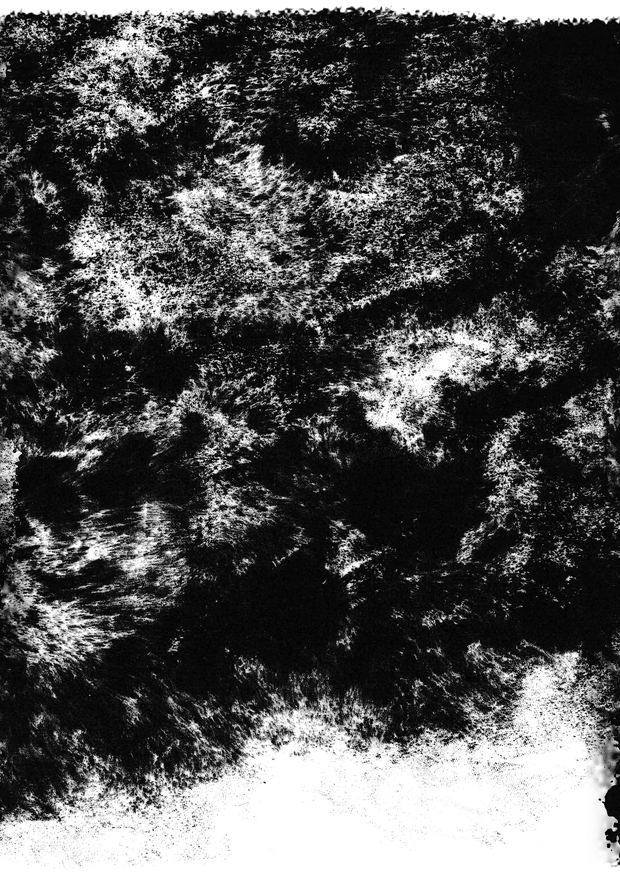
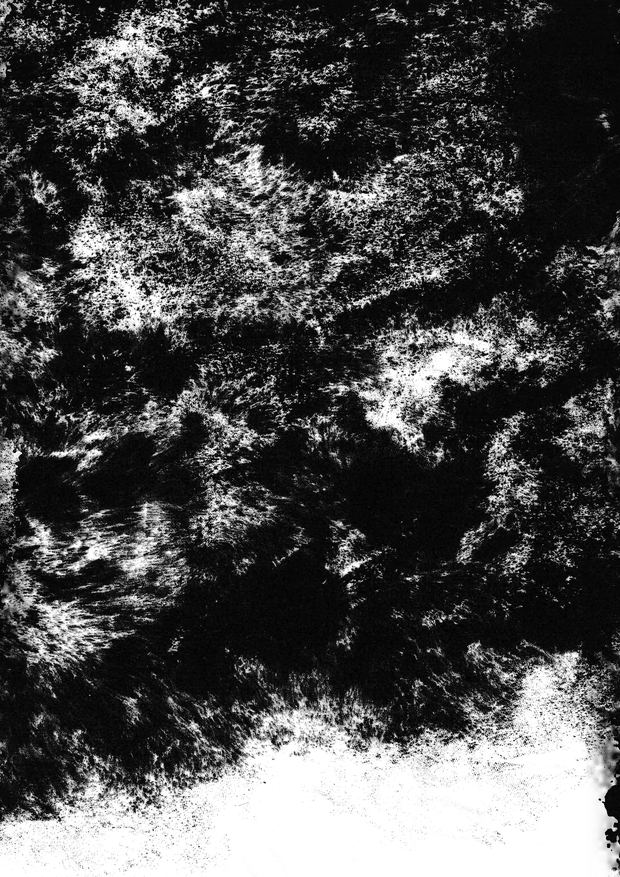
Portfolio lab: Compressed Modernity's scroll as xuan paper the air lifts under the mouse; the camera in shots: oblique, down to an ant's view across the paper, up over the whole scroll, down to the photograph; no white rim
Claude-Session: https://claude.ai/code/session_01PrWTwohcoacfLot72mywGw

Changed region(s): [[0.0, 0.0, 1.0, 0.0308], [0.9806, 0.9852, 1.0, 1.0]]

diff --git a/portfolio-lab/cm/cm-world.js b/portfolio-lab/cm/cm-world.js
@@ -1,19 +1,20 @@
-/* Compressed Modernity: the rubbings as one long handscroll, read the way a handscroll is read: close, a stretch at a
-   time, the eye travelling along it from its head to its tail.
-   Thirteen of the traced sheets are joined edge to edge (frayed where they meet) into one strip of white paper lying on
-   black, dense canopies first, then the strokes of the grasses, then the blots, thinning toward the end. The ink stands
-   a little as high as it is dark and a low light rakes across it, so the rubbings read as a land; beyond the stretch
-   being read the paper sinks into the dark. The view opens close on the head of the scroll, draws back a little and
-   moves along it, the paper passing under the eye; at the tail it rises back to where the cover photograph was taken
-   (the strip lies exactly where the paper lies in the picture) and the picture takes over.
+/* Compressed Modernity: the rubbings as one long handscroll of xuan paper, read the way a handscroll is read.
+   Thirteen of the traced sheets are joined edge to edge (frayed where they meet) into one strip of paper lying on black,
+   dense canopies first, then the strokes of the grasses, then the blots, thinning toward the end. The ink stands a
+   little as high as it is dark and a low light rakes across it, so the rubbings read as a land.
+   The paper is thin and light: its long edges stir by themselves, and wherever the mouse sweeps over it (or the page
+   is scrolled under it) the air lifts it, and it drifts back down (a small simulation of the sheet: lifted by the air,
+   pulled flat by its own tension, falling slowly, resting on the ground).
+   The camera: close and oblique on the head of the scroll; along it, lower and flatter; down onto the paper, an ant's
+   view running across its surface; up into a view of the whole scroll; and down again to where the cover photograph
+   was taken (the strip lies exactly where the paper lies in the picture), and the picture takes over.
    step(u): u = screen heights of scroll since the frame pinned. Needs THREE (r128). */
 window.CMStage = function (frame, opts) {
   'use strict';
   const clamp = (v, a, b) => Math.min(b, Math.max(a, v));
   const lerp = (a, b, t) => a + (b - a) * t;
   const smt = (a, b, x) => { const t = clamp((x - a) / (b - a), 0, 1); return t * t * (3 - 2 * t); };
-  const eio = t => (t < .5 ? 4 * t * t * t : 1 - Math.pow(-2 * t + 2, 3) / 2);
-  const PAN1 = 5.0, BK0 = 4.55, BK1 = 5.95, PH0 = 5.55, PH1 = 6.05, OUT0 = 6.0, OUT1 = 6.35, END = 6.6;
+  const FIN = 6.0, PH0 = 5.65, PH1 = 6.15, OUT0 = 6.1, OUT1 = 6.45, END = 6.7;
   // the photograph's camera (assumed): a phone's main lens, 41° vertical on the 16:9 frame, eye height 1.5 m; the
   // horizon, where the paper's long edges meet, at .455 of the height
   const VFOV = 41, EYE = 1.5, HZ = .455;
@@ -24,9 +25,9 @@ window.CMStage = function (frame, opts) {
   const cv = document.createElement('canvas'); cv.className = 'ws-cv'; cv.setAttribute('aria-hidden', 'true');
   frame.appendChild(photo); frame.appendChild(cv);
 
-  let T = null, R = null, scene, cam, vw = 1, vh = 1, mobile = false, loaded = 0, key = '', built = false, S = null, U = null;
+  let T = null, R = null, scene, cam, vw = 1, vh = 1, mobile = false, loaded = 0, built = false, S = null, U = null;
   const lo = [], tex = [], mats = [], meshes = [];
-  let hiQueued = false;
+  let hiQueued = false, HF = null;
 
   function js(src) { return new Promise((res, rej) => { const el = document.createElement('script'); el.src = src; el.onload = res; el.onerror = rej; document.head.appendChild(el); }); }
   function img(src) { return new Promise(res => { const im = new Image(); im.decoding = 'async'; im.src = src; (im.decode ? im.decode() : new Promise(r => { im.onload = r; })).then(() => res(im), () => res(null)); }); }
@@ -36,14 +37,14 @@ window.CMStage = function (frame, opts) {
     // the small tiles first (the whole scroll, quickly); on a large screen the full ones follow, head first
     Promise.all([window.THREE ? 0 : js(opts.three), Promise.all(opts.tiles.map(t => img(t.lo)))]).then(([, list]) => {
       T = window.THREE; list.forEach((im, i) => lo[i] = im);
-      init(); key = '';
+      init();
     }).catch(e => console.warn('CM world off:', e));
   }
   function loadHi() {
     if (hiQueued || mobile || !built) return; hiQueued = true;
     let next = 0;
     const one = () => { const k = next++; if (k >= NT) return;
-      img(opts.tiles[k].hi).then(im => { if (im && tex[k]) { tex[k].image = im; tex[k].needsUpdate = true; key = ''; } one(); }); };
+      img(opts.tiles[k].hi).then(im => { if (im && tex[k]) { tex[k].image = im; tex[k].needsUpdate = true; } one(); }); };
     one(); one();                                            // two at a time
   }
 
@@ -78,7 +79,7 @@ window.CMStage = function (frame, opts) {
     const x = c.getContext('2d'); x.fillStyle = '#fff'; x.fillRect(0, 0, GW, nc);
     lo.forEach((im, k) => { if (im) x.drawImage(im, k * na, 0, na, nc); });
     const d = x.getImageData(0, 0, GW, nc).data, n = GW * nc;
-    let a = new Float32Array(n), b = new Float32Array(n);
+    const a = new Float32Array(n), b = new Float32Array(n);
     for (let i = 0; i < n; i++) a[i] = 1 - d[i * 4] / 255;
     for (let pass = 0; pass < 3; pass++) {                   // softened, separably: canopies are hills, not needles
       for (let j = 0; j < nc; j++) for (let i = 0; i < GW; i++) {
@@ -90,12 +91,12 @@ window.CMStage = function (frame, opts) {
         a[j * GW + i] = s / m;
       }
     }
-    return { h: a, GW };
+    return { h: a, GW, na, nc };
   }
   function buildTiles() {
     meshes.forEach(m => { scene.remove(m); m.geometry.dispose(); }); meshes.length = 0;
-    const na = mobile ? 56 : 110, nc = mobile ? 80 : 156, { h, GW } = heights(na, nc);
-    const H = (g, i) => h[clamp(i, 0, nc - 1) * GW + clamp(g, 0, GW - 1)];
+    const na = mobile ? 56 : 110, nc = mobile ? 80 : 156; HF = heights(na, nc);
+    const { h, GW } = HF, H = (g, i) => h[clamp(i, 0, nc - 1) * GW + clamp(g, 0, GW - 1)];
     for (let k = 0; k < NT; k++) {
       const Pa = [], G = [], idx = [];
       for (let jj = 0; jj <= na; jj++) for (let i = 0; i < nc; i++) {
@@ -116,14 +117,111 @@ window.CMStage = function (frame, opts) {
       const m = new T.Mesh(g, mats[k]); m.frustumCulled = false; scene.add(m); meshes.push(m);
     }
   }
+  // the relief's height (world units) at a point of the scroll, for keeping the low camera above the paper
+  function reliefAt(a, c) {
+    if (!HF) return 0;
+    const g = clamp(Math.round(a / S.Lt * HF.na), 0, HF.GW - 1), i = clamp(Math.round(c / S.W * (HF.nc - 1)), 0, HF.nc - 1);
+    return HF.h[i * HF.GW + g] * U.uRel.value;
+  }
+
+  /* ---------- the paper's lift: a small sheet simulation on a grid over the whole scroll ----------
+     h: how far the paper stands off the ground; the air (the mouse's sweep, the scroll's gusts) pushes it up, its
+     tension spreads and evens it, a weak gravity and the air's drag let it float back down, and the ground stops it. */
+  const SIM = { NA: 0, NC: 34, dx: 1, h: null, v: null, data: null, tex: null, HM: .08 };
+
+  function simInit() {
+    const NC = SIM.NC, dx = S.W / (NC - 1), NA = Math.ceil(S.Ltot / dx) + 1;
+    Object.assign(SIM, { NA, dx, h: new Float32Array(NA * NC), v: new Float32Array(NA * NC), data: new Uint8Array(NA * NC) });
+    SIM.tex = new T.DataTexture(SIM.data, NA, NC, T.LuminanceFormat, T.UnsignedByteType);
+    SIM.tex.unpackAlignment = 1; SIM.tex.magFilter = SIM.tex.minFilter = T.LinearFilter; SIM.tex.generateMipmaps = false; SIM.tex.needsUpdate = true;
+  }
+  function simStep(dt) {
+    // slack along the scroll, tauter across it: a lift spreads over the paper's width and stands as a ridge across it
+    const { NA, NC, h, v, dx } = SIM, Ka = .07 * .07 / (dx * dx), Kc = .16 * .16 / (dx * dx), G = .38, drag = Math.exp(-3.5 * dt);
+    for (let j = 0; j < NC; j++) {
+      const r = j * NA, ru = (j > 0 ? j - 1 : j) * NA, rd = (j < NC - 1 ? j + 1 : j) * NA;
+      for (let i = 0; i < NA; i++) {
+        const k = r + i, hk = h[k];
+        const f = Ka * (h[r + (i > 0 ? i - 1 : i)] + h[r + (i < NA - 1 ? i + 1 : i)] - 2 * hk) + Kc * (h[ru + i] + h[rd + i] - 2 * hk);
+        v[k] = (v[k] + (f - (hk > 0 ? G : 0)) * dt) * drag;
+      }
+    }
+    for (let k = 0, n = NA * NC; k < n; k++) {
+      let hk = h[k] + v[k] * dt;
+      if (hk <= 0) { hk = 0; if (v[k] < 0) v[k] = 0; } else if (hk > SIM.HM) { hk = SIM.HM; if (v[k] > 0) v[k] = 0; }
+      h[k] = hk; SIM.data[k] = hk / SIM.HM * 255 + .5;
+    }
+    SIM.tex.needsUpdate = true;
+  }
+  function lift(a, c, R, dv) {                              // the air under a sweep: a soft round push upward
+    const { NA, NC, v, dx } = SIM, i0 = Math.max(0, Math.floor((a - 2.4 * R) / dx)), i1 = Math.min(NA - 1, Math.ceil((a + 2.4 * R) / dx));
+    const Rc = 1.7 * R, j0 = Math.max(0, Math.floor((c - 2.4 * Rc) / dx)), j1 = Math.min(NC - 1, Math.ceil((c + 2.4 * Rc) / dx));
+    for (let j = j0; j <= j1; j++) {
+      const cy = j * dx, edge = 1 + .9 * (smt(.22 * S.W, 0, cy) + smt(.78 * S.W, S.W, cy));   // the free edges lift first
+      for (let i = i0; i <= i1; i++) {
+        const ax = i * dx, r2 = (ax - a) * (ax - a) / (R * R) + (cy - c) * (cy - c) / (Rc * Rc);
+        if (r2 < 5.8) v[j * NA + i] += dv * edge * Math.exp(-r2);
+      }
+    }
+  }
+  function simAt(a, c) {
+    if (!SIM.h) return 0;
+    const i = clamp(Math.round(a / SIM.dx), 0, SIM.NA - 1), j = clamp(Math.round(c / SIM.dx), 0, SIM.NC - 1);
+    return SIM.h[j * SIM.NA + i];
+  }
+  // where a point of the screen falls on the scroll (strip coordinates), and how far it is from the eye
+  let ray = null;
+  function hitAt(nx, ny) {
+    if (!ray) ray = new T.Raycaster();
+    ray.setFromCamera({ x: nx, y: ny }, cam);
+    const o = ray.ray.origin, d = ray.ray.direction; if (d.y > -1e-4) return null;
+    const t = (o.y - .01) / -d.y, rel = o.clone().addScaledVector(d, t).sub(S.O);
+    const a = rel.dot(S.D) - S.s0, c = rel.dot(S.N);
+    if (a < -.05 || a > S.Ltot + .05 || c < -.05 || c > S.W + .05) return null;
+    return { a, c, dist: t };
+  }
+  const mp = { x: 0, y: 0, on: false, prev: null };
+  addEventListener('pointermove', e => { if (e.pointerType !== 'mouse') return; mp.x = e.clientX; mp.y = e.clientY; mp.on = true; }, { passive: true });
+  document.documentElement.addEventListener('mouseleave', () => { mp.on = false; mp.prev = null; });
+  let simT = 0, lastU = null, gust = 0, seed = 3;
+  const rnd = () => (seed = (seed * 16807) % 2147483647) / 2147483647;
+  function air(u, dt) {
+    // the mouse: its sweep across the paper (moving the mouse, or the paper moving under a still mouse as the page
+    // scrolls), measured as an angle per second so a sweep lifts as much near or far
+    if (mp.on) {
+      const H = hitAt(mp.x / vw * 2 - 1, -(mp.y / vh * 2 - 1));
+      if (H && mp.prev && dt > 0) {
+        const ang = Math.min(5, Math.hypot(H.a - mp.prev.a, H.c - mp.prev.c) / H.dist / dt);
+        // (gentler right under a low eye, so the paper does not rise up as a wall in front of it)
+        if (ang > .05) lift(H.a, H.c, clamp(.1 * H.dist, .045, .22), 2.2 * ang * dt * (.25 + .75 * smt(.12, .6, H.dist)));
+      }
+      mp.prev = H;
+    }
+    // the scroll's own breath: gusts here and there while the page moves
+    const sp = lastU === null ? 0 : Math.min(3, Math.abs(u - lastU) / Math.max(dt, 1e-3)); lastU = u;
+    gust += Math.min(7, sp * 3) * dt;
+    while (gust >= 1) { gust -= 1;
+      const H = hitAt(rnd() * 1.8 - .9, rnd() * 1.4 - .9);
+      if (H) lift(H.a, H.c, clamp((.05 + .06 * rnd()) * Math.max(1, H.dist), .04, .25), (mp.on ? .06 : .12) * (.5 + rnd()) * Math.min(1, sp / 1.5));
+    }
+  }
+
   const VS = `
     attribute vec3 aP; attribute vec2 aG;
     uniform vec3 uO, uD, uN; uniform float uLt, uW, uS0, uK, uRel;
+    uniform sampler2D uSim; uniform vec2 uSimN; uniform float uDx, uHM, uTime, uFl;
     varying vec2 vUv; varying vec3 vNrm; varying vec3 vW; varying float vDist;
+    float lifted(float A, float C){ return texture2D(uSim, vec2((A / uDx + .5) / uSimN.x, (C / uDx + .5) / uSimN.y)).r * uHM; }
     void main(){
-      float s = aP.x, t = aP.y, h = aP.z * uRel;
-      vec3 nL = normalize(vec3(-aG.x * uRel / uLt, 1., -aG.y * uRel / uW));       // (along, up, across)
-      vec3 w = uO + uD * (uS0 + (uK + s) * uLt) + uN * (t * uW) + vec3(0., h, 0.);
+      float s = aP.x, t = aP.y, A = (uK + s) * uLt, C = t * uW;
+      float hp = lifted(A, C);
+      float gA = (lifted(A + uDx, C) - lifted(A - uDx, C)) / (2. * uDx), gC = (lifted(A, C + uDx) - lifted(A, C - uDx)) / (2. * uDx);
+      // the long edges never quite lie flat, and stir
+      float e = smoothstep(.16, 0., t) + smoothstep(.84, 1., t);
+      float fl = e * e * uFl * (.55 + .45 * sin(A * 7.3 - uTime * 1.9 + 2. * sin(A * 1.7 + uTime * .43)));
+      float h = aP.z * uRel + hp + fl;
+      vec3 nL = normalize(vec3(-(aG.x * uRel / uLt + gA), 1., -(aG.y * uRel / uW + gC)));     // (along, up, across)
+      vec3 w = uO + uD * (uS0 + A) + uN * C + vec3(0., h, 0.);
       vNrm = normalize(uD * nL.x + vec3(0., nL.y, 0.) + uN * nL.z);
       vUv = vec2(s, 1. - t);                                  // the sheet's top at the far edge
       vW = w;
@@ -133,16 +231,16 @@ window.CMStage = function (frame, opts) {
     }`;
   const FS = `
     precision highp float;
-    uniform sampler2D uTex; uniform vec3 uSun, uFoc; uniform float uFogN, uFogF;
+    uniform sampler2D uTex; uniform vec3 uSun; uniform float uFogN, uFogF;
     varying vec2 vUv; varying vec3 vNrm; varying vec3 vW; varying float vDist;
     void main(){
       float ink = 1. - texture2D(uTex, vUv).r;
       vec3 paper = vec3(.972, .966, .952), inkC = vec3(.07, .07, .075);
       vec3 n = normalize(vNrm); if (dot(n, cameraPosition - vW) < 0.) n = -n;   // the side the eye sees
-      float lit = .66 + .44 * max(dot(n, uSun), 0.);
+      float lit = .64 + .46 * max(dot(n, uSun), 0.);
       vec3 c = mix(paper, inkC, pow(ink, 1.1)) * lit;
-      // beyond the stretch being read, the scroll sinks into the dark
-      float f = smoothstep(uFogN, uFogF, distance(vW, uFoc));
+      // far from the eye the scroll sinks into the dark
+      float f = smoothstep(uFogN, uFogF, vDist);
       gl_FragColor = vec4(c * (1. - f), 1.);
     }`;
 
@@ -151,8 +249,10 @@ window.CMStage = function (frame, opts) {
     try { R = new T.WebGLRenderer({ canvas: cv, antialias: true, alpha: true, premultipliedAlpha: false }); } catch (e) { console.warn('CM world off:', e); return; }
     R.setClearColor(0x000000, 0);
     scene = new T.Scene(); cam = new T.PerspectiveCamera(VFOV, 1, .002, 200);
+    S = strip(); simInit();
     U = { uO: { value: new T.Vector3() }, uD: { value: new T.Vector3() }, uN: { value: new T.Vector3() }, uLt: { value: 1 }, uW: { value: 1 }, uS0: { value: 0 },
-      uRel: { value: .03 }, uSun: { value: new T.Vector3(.35, .55, -.76).normalize() }, uFoc: { value: new T.Vector3() }, uFogN: { value: 1 }, uFogF: { value: 2 } };
+      uRel: { value: .03 }, uSun: { value: new T.Vector3(.35, .55, -.76).normalize() }, uFogN: { value: 1 }, uFogF: { value: 2 },
+      uSim: { value: SIM.tex }, uSimN: { value: new T.Vector2(SIM.NA, SIM.NC) }, uDx: { value: SIM.dx }, uHM: { value: SIM.HM }, uTime: { value: 0 }, uFl: { value: .011 } };
     const an = Math.min(8, R.capabilities.getMaxAnisotropy());
     for (let k = 0; k < NT; k++) {
       const t = new T.Texture(lo[k] || undefined); t.format = T.LuminanceFormat; t.anisotropy = an; t.generateMipmaps = true;
@@ -170,58 +270,80 @@ window.CMStage = function (frame, opts) {
     cam.fov = VFOV; cam.aspect = b.pw / b.ph; cam.setViewOffset(b.pw, b.ph, -b.ox, -b.oy, vw, vh); cam.updateProjectionMatrix();
     S = strip();
     U.uO.value.copy(S.O); U.uD.value.copy(S.D); U.uN.value.copy(S.N); U.uLt.value = S.Lt; U.uW.value = S.W; U.uS0.value = S.s0;
-    tab = null; key = '';
+    keys = null;
   }
   function layout(w, h) {
     vw = w; vh = h; const m = vw < 700;
     if (built && m !== mobile) { mobile = m; buildTiles(); loadHi(); }
-    mobile = m; size(); key = '';
+    mobile = m; size();
   }
 
-  /* ---------- the camera: close on the head; along the scroll; back to the photograph ----------
-     How much of the scroll the screen spans at the point being read grows from a little over half a sheet to about
-     two; the eye moves along at a pace kept in step with that span, so the paper passes at the same speed on screen
-     however close it is. */
-  let tab = null;
-  const NU = 600;
-  function span(u) { return S.Lt * (.62 + .95 * smt(.05, 1.4, u) + .45 * smt(2.6, PAN1, u)); }
-  function build() {
-    const b = photoBox(), tv = Math.tan(VFOV * Math.PI / 360) * vh / b.ph, th = tv * vw / vh;
-    const A0 = .36 * S.Lt, A1 = S.Ltot - .62 * S.Lt, a = new Float32Array(NU + 1);
-    let acc = 0; a[0] = 0;
-    for (let i = 1; i <= NU; i++) {
-      const u = PAN1 * (i - .5) / NU;
-      acc += span(u) * smt(0, .9, u) * (1 - smt(PAN1 - .7, PAN1, u)); a[i] = acc;
-    }
-    for (let i = 0; i <= NU; i++) a[i] = A0 + (A1 - A0) * a[i] / acc;
-    tab = { a, th: Math.max(th, .34) };
+  /* ---------- the camera: a few shots, joined without stops ----------
+     Keyframes of eye and aim, run through by a monotone cubic in each axis (smooth, and never overshooting a key, so
+     the low shots cannot dip into the paper): close and oblique on the head; along the scroll, lower and flatter; down
+     onto the paper and running across it at an ant's height, weaving a little; up to see the whole scroll; down to
+     the photograph's eye. */
+  let keys = null;
+  function makeKeys() {
+    const b = photoBox(), tv = Math.tan(VFOV * Math.PI / 360) * vh / b.ph, th = tv * vw / vh, z = clamp(.6 / th, 1, 1.9);
+    const L = S.Lt, W = S.W, Up = new T.Vector3(0, 1, 0);
+    const obl = (aT, d, psi, the, cT) => {
+      const t = P(aT, (cT === undefined ? .5 : cT) * W, 0);
+      const dir = S.D.clone().multiplyScalar(-Math.sin(psi) * Math.cos(the)).addScaledVector(S.N, Math.cos(psi) * Math.cos(the)).addScaledVector(Up, Math.sin(the));
+      return { p: t.clone().addScaledVector(dir, d * z), t };
+    };
+    const mid = S.Ltot * .5, port = vw / vh < .9;
+    const over = port ? { p: P(-1.9, .5 * W + .6, 2.3), t: P(S.Ltot * .42, .5 * W, 0) }
+                      : { p: P(mid - 1.5, W + 3.3, 3.9), t: P(mid + .2, .5 * W, 0) };
+    const K = [
+      [0, obl(.38 * L, .34, .62, .6)],
+      [1.0, obl(1.35 * L, .6, .64, .5)],
+      [1.95, obl(3.3 * L, .5, .8, .33)],
+      [2.55, { p: P(4.45 * L, .64 * W, .15), t: P(5.5 * L, .47 * W, .02) }],
+      [3.05, { p: P(5.4 * L, .52 * W, .062), t: P(6.45 * L, .46 * W, .035) }],
+      [3.7, { p: P(7.4 * L, .4 * W, .058), t: P(8.45 * L, .56 * W, .035) }],
+      [4.3, { p: P(9.3 * L, .56 * W, .085), t: P(10.35 * L, .5 * W, .02) }],
+      [5.1, over],
+      [FIN, { p: new T.Vector3(0, EYE, 0), t: new T.Vector3(0, EYE - Math.tan(S.pitch) * 10, -10) }],
+    ];
+    const us = K.map(k => k[0]), mk = get => mono(us, K.map(k => get(k[1])));
+    return { us, p: ['x', 'y', 'z'].map(ax => mk(o => o.p[ax])), t: ['x', 'y', 'z'].map(ax => mk(o => o.t[ax])) };
   }
-  const PSI = .6, THE = .56;                                // looking along the scroll and down at it
-  function panPose(u) {
-    if (!tab) build();
-    const x = clamp(u / PAN1, 0, 1) * NU, i = Math.min(NU - 1, Math.floor(x)), f = x - i;
-    const a = lerp(tab.a[i], tab.a[i + 1], f), d = span(clamp(u, 0, PAN1)) / (2 * tab.th) * 1.08;
-    const t = P(a, .5 * S.W, 0);
-    const dir = S.D.clone().multiplyScalar(-Math.sin(PSI) * Math.cos(THE)).addScaledVector(S.N, Math.cos(PSI) * Math.cos(THE)).add(new T.Vector3(0, Math.sin(THE), 0));
-    return { p: t.clone().addScaledVector(dir, d), t, d };
+  // Fritsch–Carlson monotone cubic through (xs, ys): its values and tangents
+  function mono(xs, ys) {
+    const n = xs.length, d = [], m = new Array(n).fill(0);
+    for (let i = 0; i < n - 1; i++) d.push((ys[i + 1] - ys[i]) / (xs[i + 1] - xs[i]));
+    for (let i = 1; i < n - 1; i++) m[i] = d[i - 1] * d[i] <= 0 ? 0 : (d[i - 1] + d[i]) / 2;
+    for (let i = 0; i < n - 1; i++) {
+      if (d[i] === 0) { m[i] = m[i + 1] = 0; continue; }
+      const al = m[i] / d[i], be = m[i + 1] / d[i], s = al * al + be * be;
+      if (s > 9) { const tau = 3 / Math.sqrt(s); m[i] = tau * al * d[i]; m[i + 1] = tau * be * d[i]; }
+    }
+    return { ys, m };
+  }
+  function ev(us, c, u) {
+    const n = us.length; if (u <= us[0]) return c.ys[0]; if (u >= us[n - 1]) return c.ys[n - 1];
+    let i = 0; while (u > us[i + 1]) i++;
+    const h = us[i + 1] - us[i], t = (u - us[i]) / h, t2 = t * t, t3 = t2 * t;
+    return (2 * t3 - 3 * t2 + 1) * c.ys[i] + (t3 - 2 * t2 + t) * h * c.m[i] + (-2 * t3 + 3 * t2) * c.ys[i + 1] + (t3 - t2) * h * c.m[i + 1];
   }
   function camAt(u) {
-    const A = panPose(u), k = eio(smt(BK0, BK1, u));
-    const fp = new T.Vector3(0, EYE, 0), ft = new T.Vector3(0, EYE - Math.tan(S.pitch) * 10, -10);
-    const p = A.p.clone().lerp(fp, k), t = A.t.clone().lerp(ft, k);
+    if (!keys) keys = makeKeys();
+    const p = new T.Vector3(...keys.p.map(c => ev(keys.us, c, u))), t = new T.Vector3(...keys.t.map(c => ev(keys.us, c, u)));
     cam.position.copy(p); cam.up.set(0, 1, 0); cam.lookAt(t);
-    sway(A.t.clone().lerp(t, k), 1 - smt(BK0, BK0 + .7, u));
-    return A;
+    sway(t, 1 - smt(5.0, 5.7, u));
+    // never under the paper: ride over its relief and its lift
+    const rel = cam.position.clone().sub(S.O), a = rel.dot(S.D) - S.s0, c = rel.dot(S.N);
+    if (a > -.1 && a < S.Ltot + .1 && c > -.1 && c < S.W + .1) {
+      const g = reliefAt(a, c) + simAt(a, c) + .032;
+      if (cam.position.y < g) { cam.position.y = g; cam.lookAt(t); }
+    }
+    return cam.position.distanceTo(t);
   }
 
   /* the pointer turns the view a little, as in the Commedia: the camera swings round what it looks at, easing after
      the mouse, and lets go as the view comes to the photograph (window.TAO_PTR, set by the page) */
-  const sw = { x: 0, y: 0, t: 0 };
-  function swayEase() {
-    const Q = window.TAO_PTR || { x: 0, y: 0 }, now = performance.now(), dt = sw.t ? Math.min(.05, (now - sw.t) / 1000) : .016; sw.t = now;
-    sw.x += (Q.x - sw.x) * Math.min(1, dt * 3); sw.y += (Q.y - sw.y) * Math.min(1, dt * 3);
-    return `|${sw.x.toFixed(4)}|${sw.y.toFixed(4)}`;
-  }
+  const sw = { x: 0, y: 0 };
   function sway(target, free) {
     if (free <= .001) return;
     const up = cam.up.clone().normalize(), o = cam.position.clone().sub(target), fwd = o.clone().negate().normalize();
@@ -235,15 +357,17 @@ window.CMStage = function (frame, opts) {
     photo.style.opacity = ph.toFixed(3);
     cv.style.opacity = (1 - out).toFixed(3);
     if (!R || !meshes.length) return 1 - ph;
-    if (u < -1.05 || u > END + .2) return 1 - ph;
-    const k = `${u.toFixed(4)}|${vw}|${vh}` + swayEase();
-    if (k === key) return 1 - ph; key = k;
-    const A = camAt(clamp(u, 0, END));
-    // the stretch being read is lit; the rest sinks into the dark, until the view stands back for the photograph
-    const back = smt(BK0, BK1 - .25, u);
-    U.uFoc.value.copy(A.t);
-    U.uFogN.value = lerp(A.d * .95, 60, back); U.uFogF.value = lerp(A.d * 2.3, 90, back);
-    U.uRel.value = .03 * (1 - .8 * smt(BK0, BK1, u));
+    if (u < -1.05 || u > END + .2) { simT = 0; lastU = null; mp.prev = null; return 1 - ph; }
+    const now = performance.now(), dt = simT ? Math.min(.05, (now - simT) / 1000) : .016; simT = now;
+    const Q = window.TAO_PTR || { x: 0, y: 0 };
+    sw.x += (Q.x - sw.x) * Math.min(1, dt * 3); sw.y += (Q.y - sw.y) * Math.min(1, dt * 3);
+    const uc = clamp(u, 0, END), d = camAt(uc);
+    air(uc, dt); simStep(dt * .5); simStep(dt * .5);
+    U.uTime.value = now / 1000;
+    const back = smt(4.4, 5.3, uc);                          // the far dark lifts as the view stands back
+    U.uFogN.value = lerp(d * 1.5, 60, back); U.uFogF.value = lerp(d * 3.6, 90, back);
+    U.uRel.value = .03 * (1 - .8 * smt(5.1, FIN, uc));
+    U.uFl.value = .011 * (1 - smt(5.3, FIN, uc));
     R.render(scene, cam);
     return 1 - ph;
   }

diff --git a/portfolio-lab/index.html b/portfolio-lab/index.html
@@ -368,7 +368,7 @@ html:not(.gl) .tile:hover .tile-im img{filter:none;transition:filter .6s}
 
 <script src="data.js?v=67"></script>
 <script src="texts.js?v=67"></script>
-<script src="cm/cm-world.js?v=83"></script>
+<script src="cm/cm-world.js?v=84"></script>
 <script src="fy/fy-world.js?v=75"></script>
 <script src="br/br-world.js?v=75"></script>
 <script>
@@ -508,7 +508,7 @@ wsList.forEach(ch => {
       photo: url(im, 2400), photoW: im[2], photoH: im[3], strip: [[0, .8644], [1, .78], [1, .84], [0, .94]], three: '../three.min.js',
       // thirteen black-and-white rubbings joined into one long scroll (IMG_20240828_0002, _0003, _0004, _0005, _0009,
       // _0013, _0014, _0015, _0018, _0019, _0020, _0021, IMG_20240829_0008), cut back into tiles a sheet wide
-      tiles: [...Array(13)].map((_, k) => { const n = String(k).padStart(2, '0'); return { lo: `cm/t/m${n}.jpg?v=83`, hi: `cm/t/h${n}.jpg?v=83` }; }) });
+      tiles: [...Array(13)].map((_, k) => { const n = String(k).padStart(2, '0'); return { lo: `cm/t/m${n}.jpg?v=84`, hi: `cm/t/h${n}.jpg?v=84` }; }) });
     if (w.k === 'fy' && window.FYStage) w.st = window.FYStage(w.frame, { three: '../three.min.js',
       photo: url(im, 2400), glyphs: 'fy/fy-glyphs.js?v=' + WSV, reg: { pw: 1600, ph: 711, tx: 737, ty: 404, a: -15.25, s: 1.0634 } });
     if (w.k === 'br' && window.BRStage) w.st = window.BRStage(w.frame, { three: '../three.min.js', photo: url(im, 2400), photoW: im[2], photoH: im[3] });
